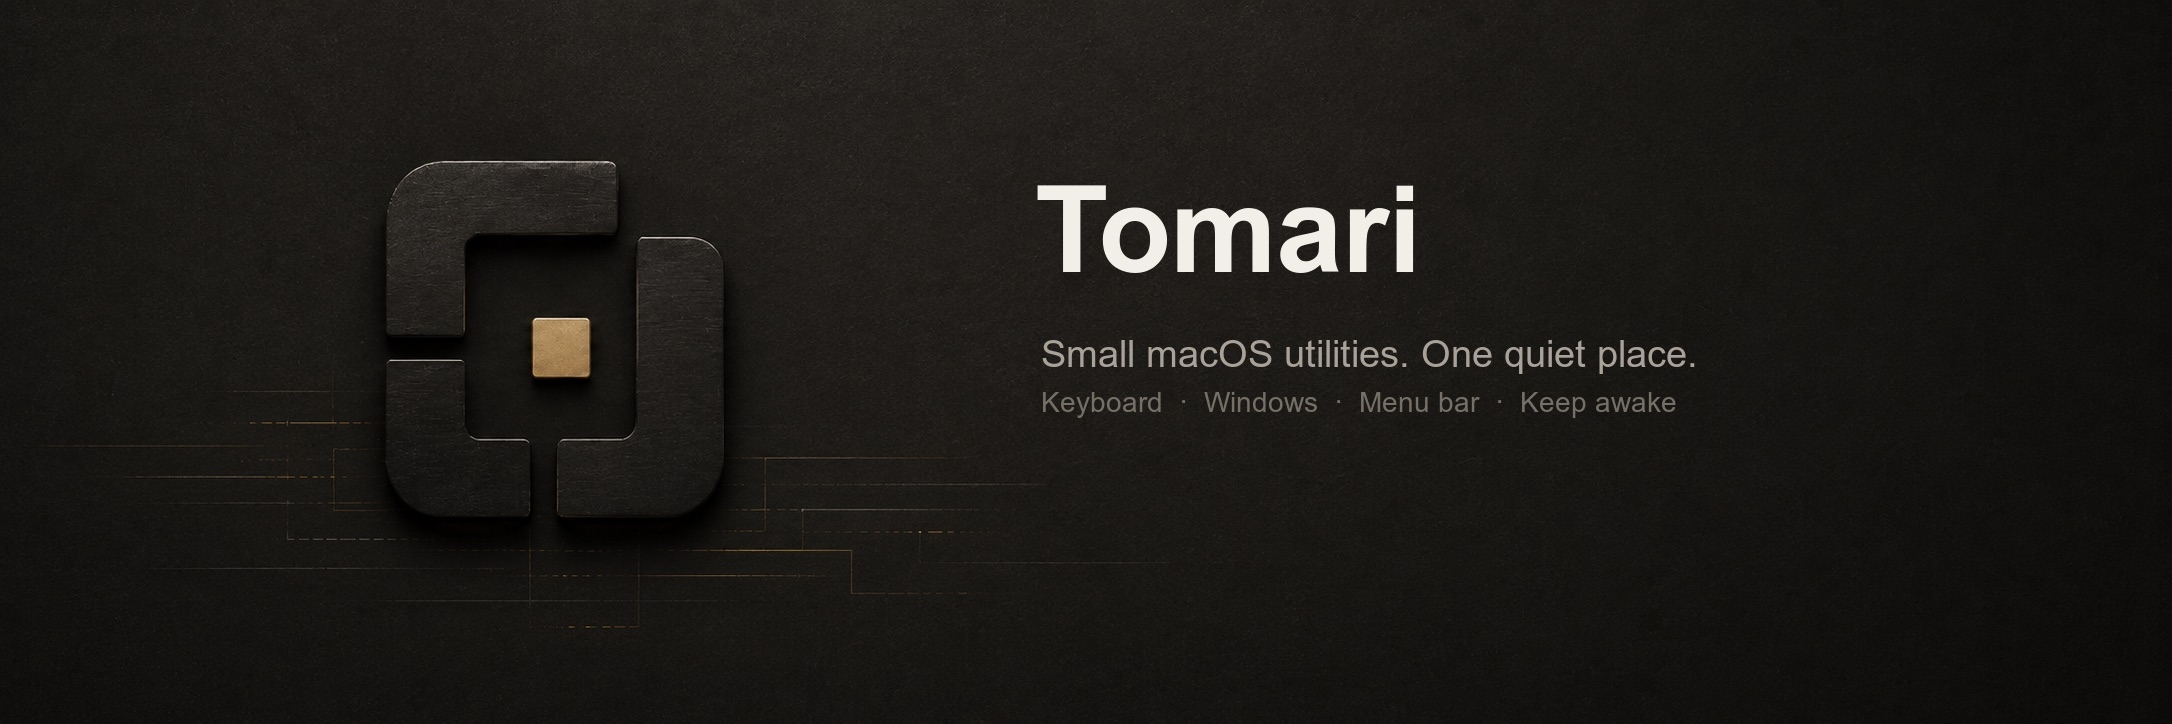
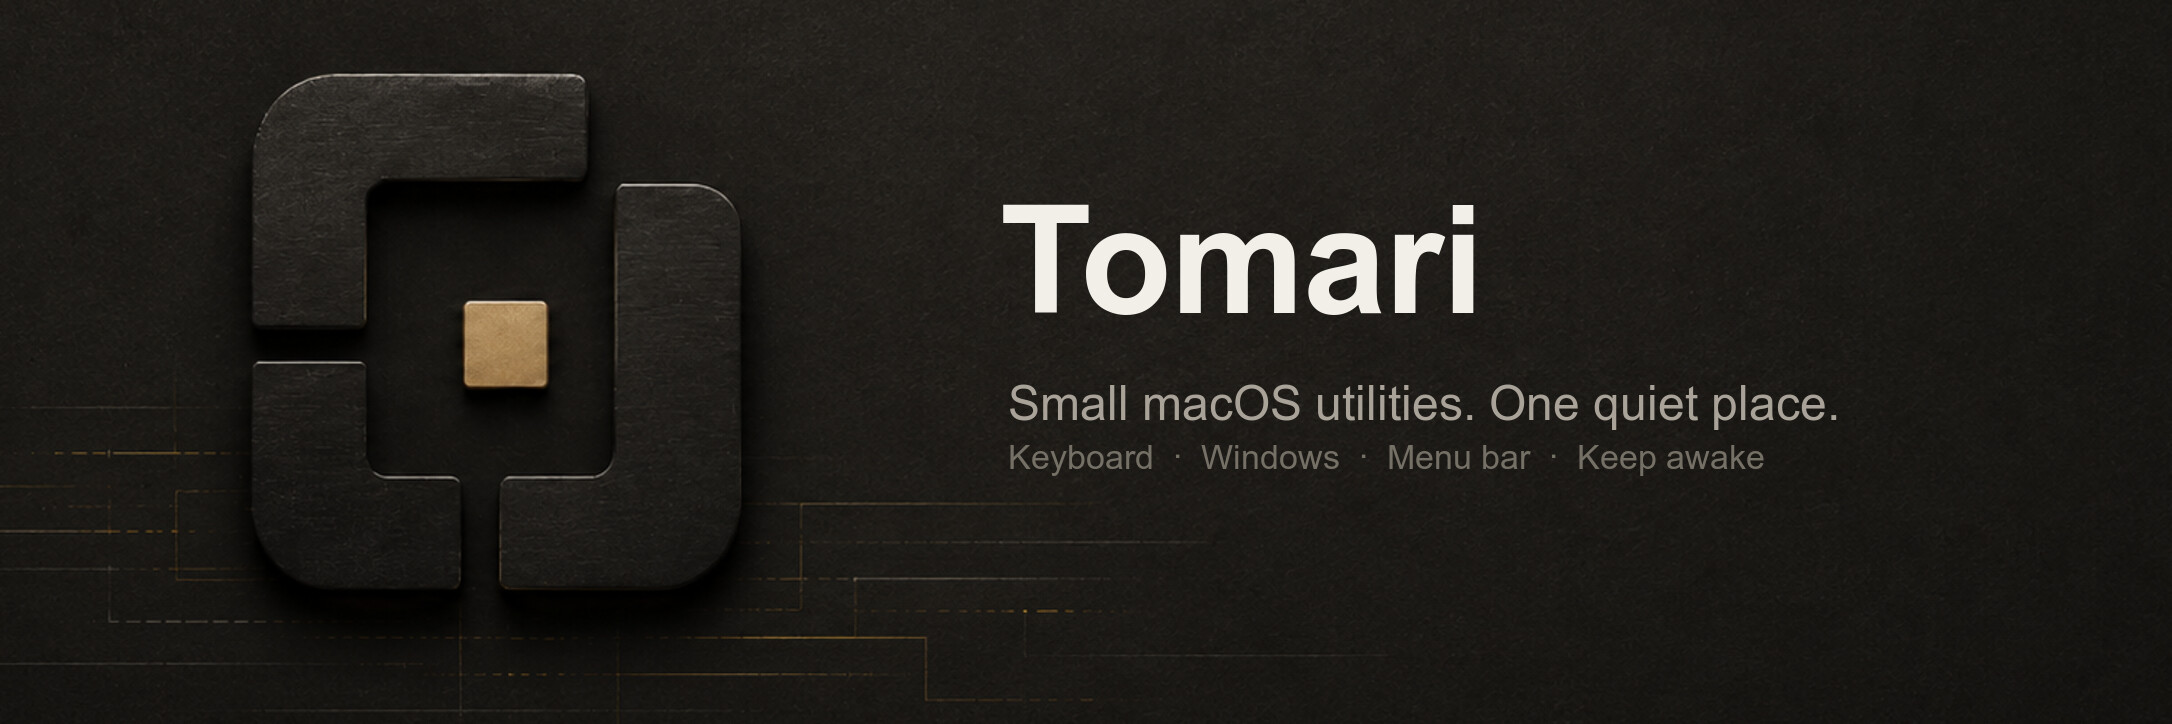
docs(readme): tighten hero framing and center the intro
Zoom the hero background so the logo fills more of the frame, enlarge
the title and taglines, and replace the intro paragraph with a centered
two-line summary.

diff --git a/README.md b/README.md
@@ -2,10 +2,10 @@
   <img src="./assets/hero.jpg" alt="Tomari — Small macOS utilities. One quiet place." width="100%" />
 </p>
 
-Tomari gathers a handful of small macOS utilities under **a single menu bar
-icon**. Today it ships **keyboard customization**, **window management** and
-**menu bar tidying**, and it is built so that new tools can be added on the
-same foundation over time.
+<p align="center">
+  <b>Small macOS utilities under a single menu bar icon.</b><br/>
+  Keyboard customization, window management, menu bar tidying and keep awake — one quiet place, built to grow.
+</p>
 
 ## Features
 
